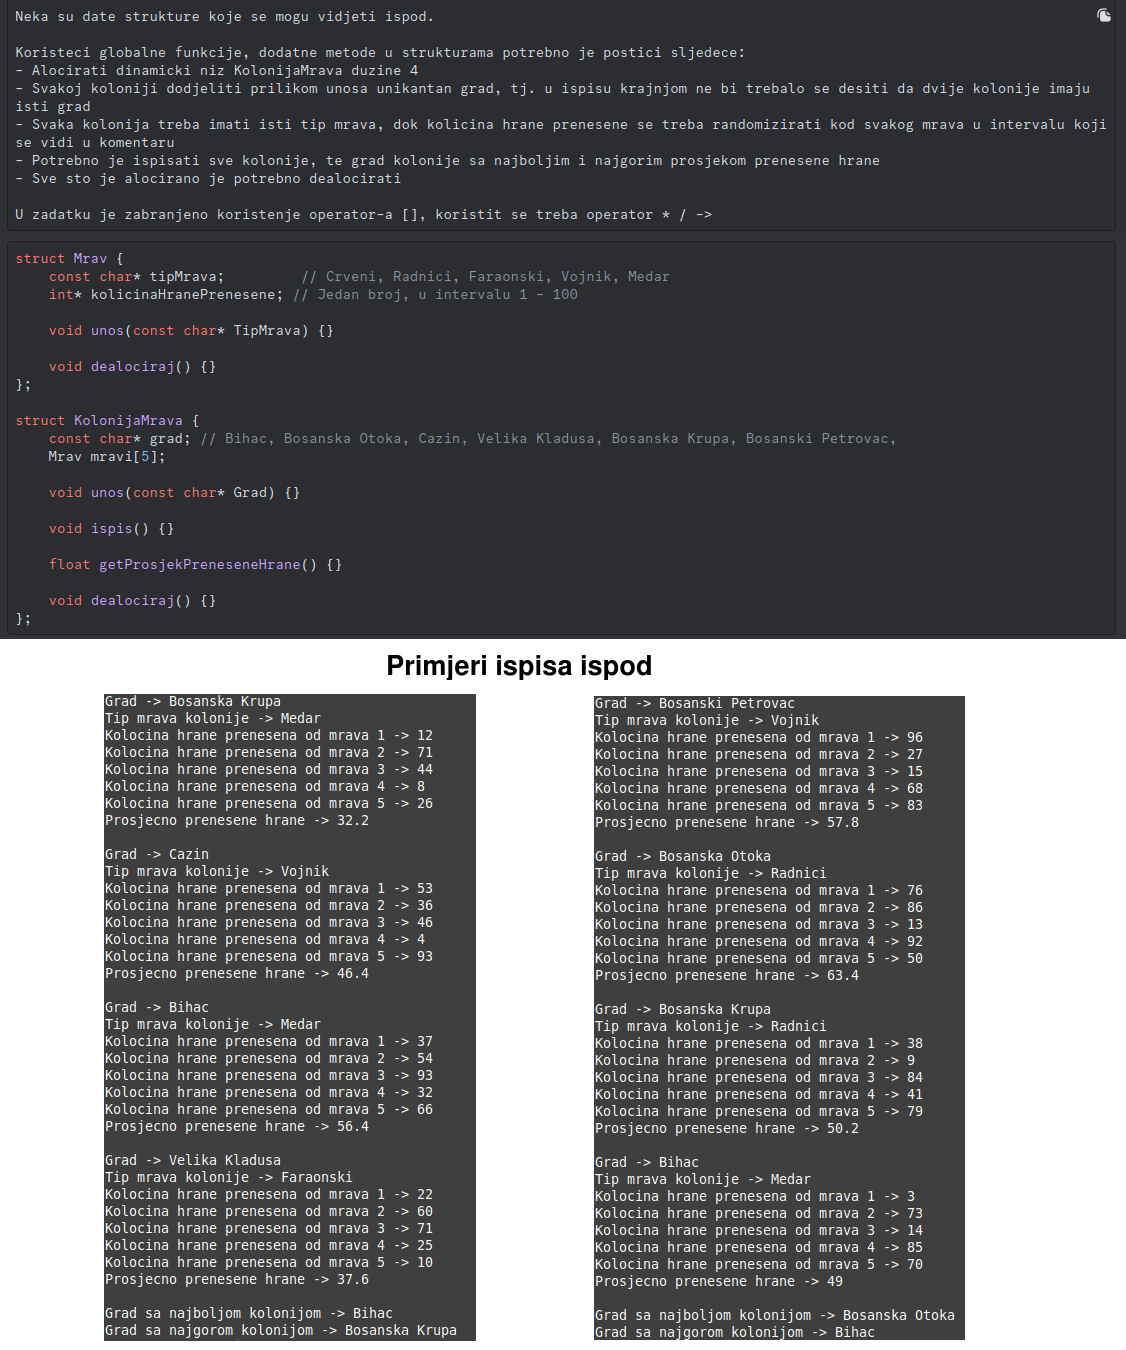
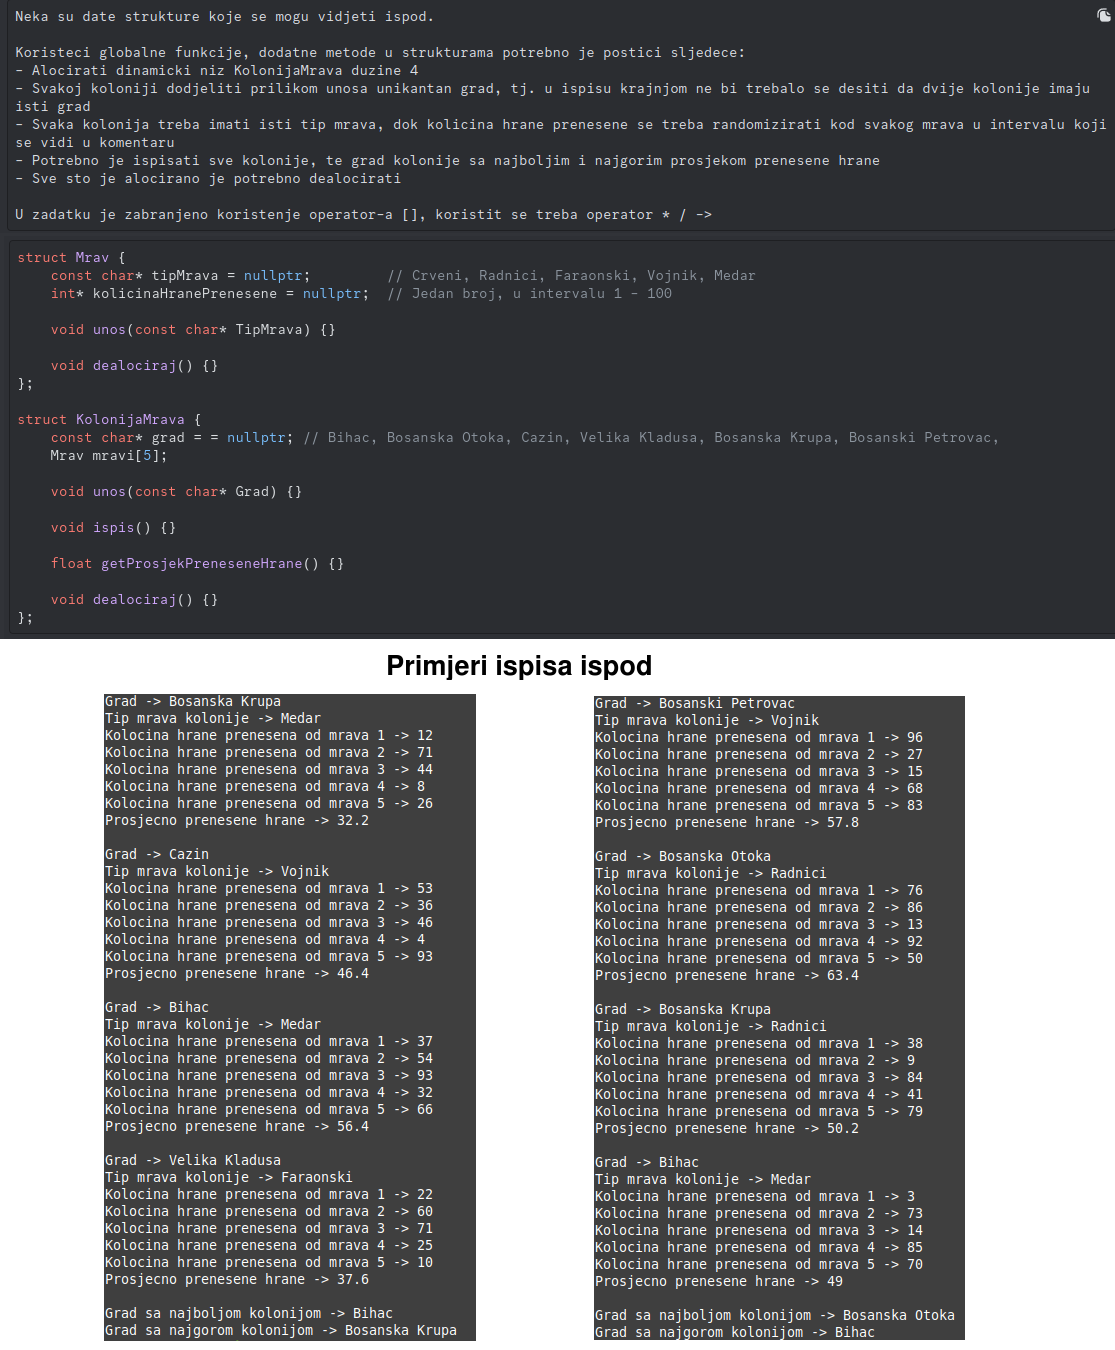
Added nullptr as default value of pointer data members

diff --git a/task-9/main.cpp b/task-9/main.cpp
@@ -33,8 +33,8 @@ namespace constants {
 }
 
 struct Mrav {
-    const char* tipMrava;		 // Crveni, Radnici, Faraonski, Vojnik, Medar
-    int* kolicinaHranePrenesene; // Jedan broj, u intervalu 1 - 100
+    const char* tipMrava = nullptr;			// Crveni, Radnici, Faraonski, Vojnik, Medar
+    int* kolicinaHranePrenesene = nullptr;  // Jedan broj, u intervalu 1 - 100
 
     void unos(const char* TipMrava) {
 		tipMrava = GetNizKaraktera(TipMrava);
@@ -51,7 +51,7 @@ struct Mrav {
 };
 
 struct KolonijaMrava {
-	const char* grad; // Bihac, Bosanska Otoka, Cazin, Velika Kladusa, Bosanska Krupa, Bosanski Petrovac,
+	const char* grad = nullptr; // Bihac, Bosanska Otoka, Cazin, Velika Kladusa, Bosanska Krupa, Bosanski Petrovac,
 	Mrav mravi[5];
 
 	void unos(const char* Grad) {
